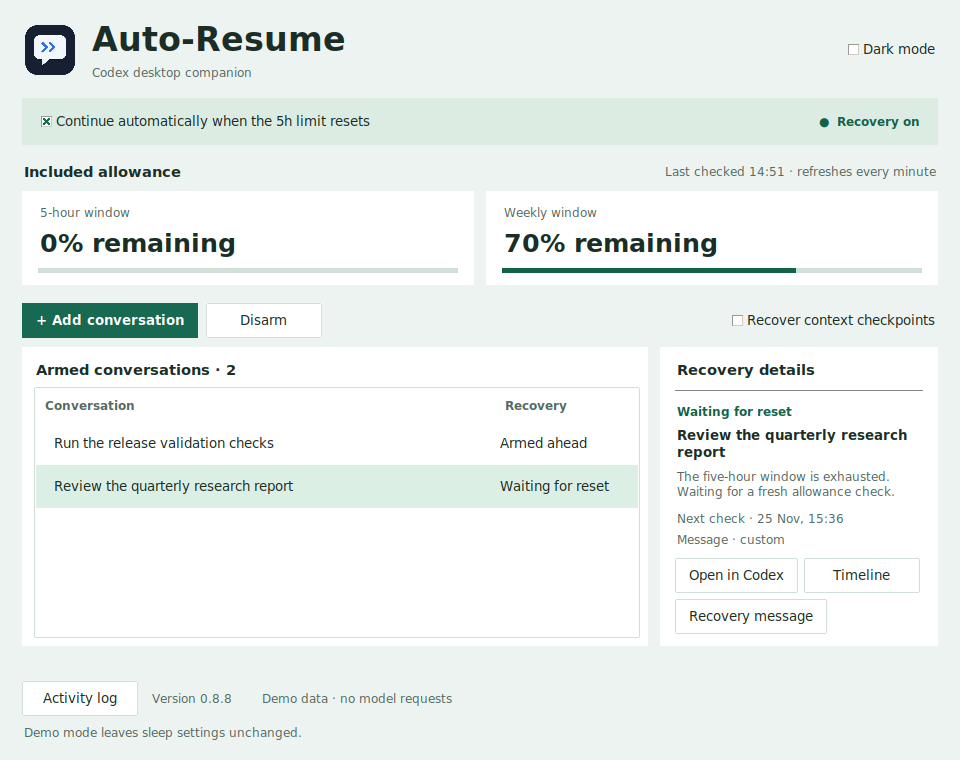
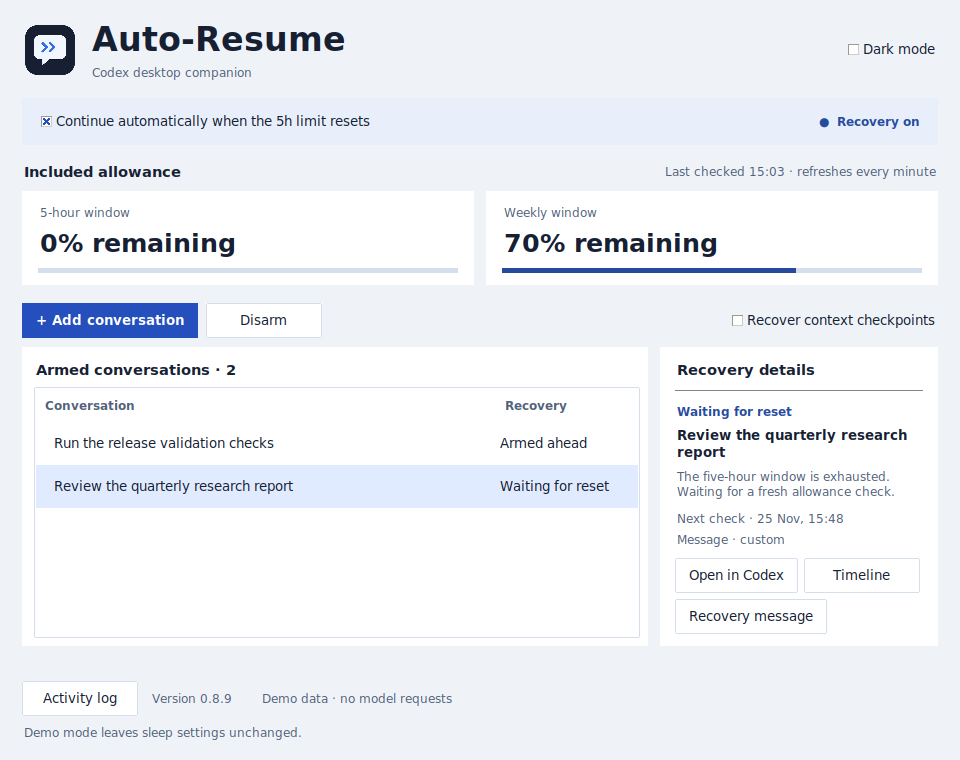
Document every release and replace green with slate and blue

diff --git a/docs/index.html b/docs/index.html
@@ -5,16 +5,16 @@
   <meta name="viewport" content="width=device-width, initial-scale=1">
   <meta name="description" content="Codex Auto-Resume is an open-source desktop app that continues armed Codex chats after the five-hour usage limit resets. Download for Windows, Ubuntu, and macOS.">
   <meta name="google-site-verification" content="5t6iDLzMA5fiEp99RvjTY3mMAB-lfjHoOtWjsu9sbQs">
-  <meta name="theme-color" content="#10151e">
+  <meta name="theme-color" content="#11141b">
   <meta property="og:type" content="website">
   <meta property="og:title" content="Codex Auto-Resume">
   <meta property="og:description" content="Pick up in the same Codex conversation when included usage returns.">
   <meta property="og:url" content="https://manouselis.github.io/codex-auto-resume/">
-  <meta property="og:image" content="https://manouselis.github.io/codex-auto-resume/screenshots/dark.png?v=0.8.8">
+  <meta property="og:image" content="https://manouselis.github.io/codex-auto-resume/screenshots/dark.png?v=0.8.9">
   <link rel="canonical" href="https://manouselis.github.io/codex-auto-resume/">
   <link rel="icon" href="assets/auto-resume.png" type="image/png">
-  <link rel="stylesheet" href="assets/site.css?v=2">
-  <script src="assets/site.js?v=0.8.8" defer></script>
+  <link rel="stylesheet" href="assets/site.css?v=3">
+  <script src="assets/site.js?v=0.8.9" defer></script>
   <title>Codex Auto-Resume | Resume Codex Chats After Usage Limits</title>
 </head>
 <body id="top">
@@ -54,8 +54,8 @@
               <button type="button" data-theme="light" aria-pressed="false" aria-controls="app-preview">Light</button>
             </div>
           </figcaption>
-          <img id="app-preview" src="screenshots/dark.png?v=0.8.8" width="960" height="760"
-            alt="Auto-Resume 0.8.8 in dark mode showing remaining allowance and the armed queue alongside recovery details for the selected chat."
+          <img id="app-preview" src="screenshots/dark.png?v=0.8.9" width="960" height="760"
+            alt="Auto-Resume 0.8.9 in dark mode showing remaining allowance and the armed queue alongside recovery details for the selected chat."
             fetchpriority="high">
         </figure>
       </div>
@@ -72,25 +72,25 @@
         </a>
       </div>
       <div class="packages">
-        <article class="package">
+        <article class="package" id="download-windows">
           <h3>Windows</h3>
           <p>Windows 11 · x64 or ARM with x64 emulation</p>
           <a class="button button-download" data-package="windows-x64-setup.exe"
             href="https://github.com/Manouselis/codex-auto-resume/releases/download/v0.8.8/codex-auto-resume-0.8.8-windows-x64-setup.exe">Download installer</a>
         </article>
-        <article class="package">
+        <article class="package" id="download-ubuntu">
           <h3>Ubuntu</h3>
           <p>Ubuntu 22.04+ · x64</p>
           <a class="button button-download" data-package="linux-x64.deb"
             href="https://github.com/Manouselis/codex-auto-resume/releases/download/v0.8.8/codex-auto-resume-0.8.8-linux-x64.deb">Download .deb</a>
         </article>
-        <article class="package">
+        <article class="package" id="download-macos">
           <h3>macOS</h3>
           <p>Apple silicon with macOS 14+ or Intel with macOS 15+</p>
           <div class="package-buttons">
-            <a class="button button-download" data-package="macos-arm64.dmg"
+            <a class="button button-download" id="download-macos-arm64" data-package="macos-arm64.dmg"
               href="https://github.com/Manouselis/codex-auto-resume/releases/download/v0.8.8/codex-auto-resume-0.8.8-macos-arm64.dmg">Apple silicon</a>
-            <a class="button button-download" data-package="macos-x64.dmg"
+            <a class="button button-download" id="download-macos-x64" data-package="macos-x64.dmg"
               href="https://github.com/Manouselis/codex-auto-resume/releases/download/v0.8.8/codex-auto-resume-0.8.8-macos-x64.dmg">Intel</a>
           </div>
         </article>
@@ -101,8 +101,8 @@
     <section class="shell upgrade" aria-labelledby="upgrade-title">
       <div class="upgrade-panel">
         <div>
-          <h2 id="upgrade-title">New in 0.8.8</h2>
-          <p>Select an armed chat to see why it is waiting and when Auto-Resume will check again. Open the original chat in Codex or read its recovery timeline from the same panel.</p>
+          <h2 id="upgrade-title">New in 0.8.9</h2>
+          <p>The dashboard uses a slate-and-blue palette in both themes. Select an armed chat to see why it is waiting, open it in Codex, or read its recovery timeline.</p>
           <p>Startup and manual update checks use GitHub’s public release feed. Accept the update prompt to install the verified download and reopen Auto-Resume.</p>
         </div>
         <div>
@@ -167,6 +167,7 @@
       <nav aria-label="Project resources">
         <a href="https://github.com/Manouselis/codex-auto-resume/blob/main/docs/TROUBLESHOOTING.md">Troubleshooting</a>
         <a href="https://github.com/Manouselis/codex-auto-resume/releases">All releases</a>
+        <a href="https://github.com/Manouselis/codex-auto-resume/blob/main/docs/RELEASING.md">Release checklist</a>
         <a href="https://github.com/Manouselis/codex-auto-resume/blob/main/LICENSE">License</a>
       </nav>
     </div>

diff --git a/docs/assets/site.css b/docs/assets/site.css
@@ -1,22 +1,22 @@
 :root {
   color-scheme: light;
-  --ink: #172b45;
-  --muted: #586c84;
-  --paper: #f1f5fa;
+  --ink: #172033;
+  --muted: #52617a;
+  --paper: #eff3f8;
   --white: #fff;
-  --line: #d6e0ed;
-  --link: #1d4ed8;
-  --focus: #2563eb;
-  --soft-blue: #e7eef9;
-  --light-selection: #dce9ff;
-  --hero: #10151e;
-  --hero-panel: #1a2331;
-  --hero-line: #2d3a4e;
-  --hero-ink: #edf3fb;
-  --hero-muted: #b8c8dc;
-  --hero-accent: #73a9ff;
-  --hero-accent-hover: #91bdff;
-  --hero-selection: #233e61;
+  --line: #d5deeb;
+  --link: #244fbd;
+  --focus: #2b56c4;
+  --soft-blue: #e8effb;
+  --light-selection: #e1ebff;
+  --hero: #11141b;
+  --hero-panel: #1b212d;
+  --hero-line: #384357;
+  --hero-ink: #f3f5fa;
+  --hero-muted: #b0bdd2;
+  --hero-accent: #9bb8ff;
+  --hero-accent-hover: #bdd0ff;
+  --hero-selection: #293a59;
   font-family: "Aptos", "Segoe UI", system-ui, sans-serif;
   color: var(--ink);
   background: var(--paper);
@@ -47,7 +47,7 @@ nav a:hover { text-decoration: underline; }
 .repo-link { padding: 7px 14px; border: 1px solid #52647e; border-radius: 7px; }
 .top :focus-visible, .hero :focus-visible { outline-color: var(--hero-accent); }
 
-.hero { background-image: radial-gradient(ellipse at 82% 30%, #20344f 0%, transparent 59%); }
+.hero { background-image: radial-gradient(ellipse at 82% 30%, #232e48 0%, transparent 59%); }
 .hero-layout { display: grid; grid-template-columns: minmax(0, .88fr) minmax(0, 1.12fr); align-items: center; gap: clamp(28px, 5vw, 72px); padding-block: clamp(48px, 6vw, 86px); }
 .eyebrow { margin-bottom: 17px; color: var(--hero-accent); font-size: .875rem; letter-spacing: .085em; text-transform: uppercase; font-weight: 720; }
 h1, h2, h3 { line-height: 1.08; text-wrap: balance; }
@@ -58,7 +58,7 @@ h1 span { display: block; color: var(--hero-accent); }
 .hero-link { color: var(--hero-ink); font-size: .9375rem; font-weight: 670; }
 .hero-note { margin-top: 15px; color: var(--hero-muted); font-size: .875rem; }
 .button { display: inline-flex; min-height: 44px; align-items: center; justify-content: center; padding: 8px 14px; border: 1px solid transparent; border-radius: 7px; font-size: .9375rem; line-height: 1.25; font-weight: 720; text-decoration: none; }
-.button-primary { background: var(--hero-accent); color: #101b2d; }
+.button-primary { background: var(--hero-accent); color: #142140; }
 .button-primary:hover { background: var(--hero-accent-hover); }
 
 .preview { border: 1px solid #425573; border-radius: 12px; overflow: hidden; background: var(--hero); box-shadow: 0 18px 55px #070e1970; }

diff --git a/docs/assets/site.js b/docs/assets/site.js
@@ -7,8 +7,8 @@ if (preview && themeButtons.length) {
   for (const button of themeButtons) {
     button.addEventListener("click", () => {
       const theme = button.dataset.theme;
-      preview.src = `screenshots/${theme}.png?v=0.8.8`;
-      preview.alt = `Auto-Resume 0.8.8 in ${theme} mode showing remaining allowance and the armed queue alongside recovery details for the selected chat.`;
+      preview.src = `screenshots/${theme}.png?v=0.8.9`;
+      preview.alt = `Auto-Resume 0.8.9 in ${theme} mode showing remaining allowance and the armed queue alongside recovery details for the selected chat.`;
       for (const item of themeButtons) {
         item.setAttribute("aria-pressed", String(item === button));
       }
@@ -28,11 +28,11 @@ async function updateDownloads() {
 
   // Keep bundled links available offline or when GitHub rate-limits the feed.
   const versionLabel = document.querySelector("#release-version");
-  const currentTag = versionLabel.textContent.split(" ")[0];
   const newestFirst = (a, b) => b.localeCompare(a, "en", { numeric: true });
   const published = releases
     .filter(release => !release.draft && /^v\d+\.\d+\.\d+$/.test(release.tag_name)
-      && newestFirst(release.tag_name, currentTag) <= 0 && Array.isArray(release.assets))
+      && Array.isArray(release.assets)
+      && release.assets.some(asset => asset.name === "SHA256SUMS" && asset.state === "uploaded"))
     .sort((a, b) => newestFirst(a.tag_name, b.tag_name));
 
   for (const release of published) {

diff --git a/auto_resume/ui.py b/auto_resume/ui.py
@@ -299,11 +299,11 @@ class ControlWindow:
 
     def theme(self):
         if self.dark.get():
-            bg, fg, muted, panel, border, accent = "#101816", "#eef8f4", "#a5b8b0", "#192522", "#344944", "#9be0c2"
-            selection, success, status_bg, hover, on_accent = "#2a423a", "#91e4be", "#22352e", "#b7efd6", "#152920"
+            bg, fg, muted, panel, border, accent = "#11141b", "#f3f5fa", "#b0bdd2", "#1b212d", "#384357", "#9bb8ff"
+            selection, status_ink, status_bg, hover, on_accent = "#293a59", "#a9c3ff", "#222e44", "#bdd0ff", "#142140"
         else:
-            bg, fg, muted, panel, border, accent = "#edf3f0", "#1b2d25", "#536961", "#ffffff", "#d1dfd8", "#176951"
-            selection, success, status_bg, hover, on_accent = "#dcefe5", "#126248", "#dcece3", "#14523f", "#ffffff"
+            bg, fg, muted, panel, border, accent = "#eff3f8", "#172033", "#52617a", "#ffffff", "#d5deeb", "#244fbd"
+            selection, status_ink, status_bg, hover, on_accent = "#e1ebff", "#264b9d", "#e8effb", "#1b3f98", "#ffffff"
         self.root.configure(background=bg)
         self.style.configure(".", background=bg, foreground=fg, fieldbackground=panel, font=(self.font_family, 10))
         self.style.configure("TFrame", background=bg)
@@ -314,12 +314,12 @@ class ControlWindow:
         self.style.configure("Section.TLabel", font=(self.font_family, 11, "bold"))
         self.style.configure("Muted.TLabel", foreground=muted, font=(self.font_family, 9))
         self.style.configure("CardHeading.TLabel", background=panel, font=(self.font_family, 11, "bold"))
-        self.style.configure("CardAccent.TLabel", background=panel, foreground=success, font=(self.font_family, 9, "bold"))
+        self.style.configure("CardAccent.TLabel", background=panel, foreground=status_ink, font=(self.font_family, 9, "bold"))
         self.style.configure("CardTitle.TLabel", background=panel, font=(self.font_family, 10, "bold"))
         self.style.configure("CardMuted.TLabel", background=panel, foreground=muted, font=(self.font_family, 9))
         self.style.configure("Metric.TLabel", background=panel, font=(self.font_family, 19, "bold"))
         self.style.configure("Paused.TLabel", background=status_bg, foreground=muted, font=(self.font_family, 9, "bold"))
-        self.style.configure("Status.TLabel", background=status_bg, foreground=success, font=(self.font_family, 9, "bold"))
+        self.style.configure("Status.TLabel", background=status_bg, foreground=status_ink, font=(self.font_family, 9, "bold"))
         self.style.configure("TButton", background=panel, foreground=fg, bordercolor=border, lightcolor=panel,
                              darkcolor=panel, borderwidth=1, padding=(11, 6), focuscolor=accent)
         self.style.map("TButton", background=[("active", border)], foreground=[("active", fg)])
@@ -342,7 +342,7 @@ class ControlWindow:
                              borderwidth=0, font=(self.font_family, 9, "bold"), padding=(9, 9))
         self.style.map("Treeview", background=[("selected", selection)], foreground=[("selected", fg)])
         self.style.map("Treeview.Heading", background=[("active", panel)])
-        self.bar_colors = (border, accent, success)
+        self.bar_colors = (border, accent, status_ink)
         self.draw_quotas()
 
     def draw_quotas(self):

diff --git a/scripts/build.py b/scripts/build.py
@@ -32,7 +32,7 @@ def build_app(root=ROOT):
 def source_files(root=ROOT):
     excluded = {".git", "dist", "__pycache__", ".pytest_cache", ".venv", ".ruff_cache"}
     directories = {"auto_resume", "tests", "scripts", "docs", "packaging", ".github"}
-    top_files = {"README.md", "LICENSE", "CONTRIBUTING.md", "SECURITY.md", "pyproject.toml", ".gitignore"}
+    top_files = {"AGENTS.md", "README.md", "LICENSE", "CONTRIBUTING.md", "SECURITY.md", "pyproject.toml", ".gitignore"}
     extensions = {".py", ".md", ".json", ".png", ".svg", ".desktop", ".service", ".toml", ".yml", ".yaml", ".nsi", ".spec", ".txt", ".ico", ".icns", ".sh"}
     for p in sorted(root.rglob("*")):
         relative = p.relative_to(root)

diff --git a/auto_resume/__init__.py b/auto_resume/__init__.py
@@ -1,3 +1,3 @@
 """Local, fail-closed continuation controller. No third-party runtime dependencies."""
 
-__version__ = "0.8.8"
+__version__ = "0.8.9"

diff --git a/README.md b/README.md
@@ -7,7 +7,7 @@ A desktop companion that resumes explicitly armed Codex conversations in the sam
 [Project website](https://manouselis.github.io/codex-auto-resume/)
 
 [![Checks](https://github.com/Manouselis/codex-auto-resume/actions/workflows/ci.yml/badge.svg)](https://github.com/Manouselis/codex-auto-resume/actions/workflows/ci.yml)
-[![Desktop installers](https://github.com/Manouselis/codex-auto-resume/actions/workflows/desktop.yml/badge.svg)](https://github.com/Manouselis/codex-auto-resume/actions/workflows/desktop.yml) · **v0.8.8 beta** · MIT
+[![Desktop installers](https://github.com/Manouselis/codex-auto-resume/actions/workflows/desktop.yml/badge.svg)](https://github.com/Manouselis/codex-auto-resume/actions/workflows/desktop.yml) · MIT
 
 ## Download and open
 
@@ -15,12 +15,12 @@ Python and Tk are bundled. Install the official Codex desktop app and sign in to
 
 | Your computer | Download | Install |
 | --- | --- | --- |
-| Ubuntu 22.04+ · x64 | [Ubuntu installer](https://github.com/Manouselis/codex-auto-resume/releases/download/v0.8.8/codex-auto-resume-0.8.8-linux-x64.deb) | Open with Software Install for a fresh install. Use [APT for upgrades](docs/INSTALL.md#upgrade-an-existing-ubuntu-installation). |
-| Windows 11 · x64 / ARM with x64 emulation | [Windows installer](https://github.com/Manouselis/codex-auto-resume/releases/download/v0.8.8/codex-auto-resume-0.8.8-windows-x64-setup.exe) | Open the installer, then launch from Start. |
-| macOS · Apple silicon, 14+ | [Apple silicon app](https://github.com/Manouselis/codex-auto-resume/releases/download/v0.8.8/codex-auto-resume-0.8.8-macos-arm64.dmg) | Open the disk image and drag the app to Applications. |
-| macOS · Intel, 15+ | [Intel app](https://github.com/Manouselis/codex-auto-resume/releases/download/v0.8.8/codex-auto-resume-0.8.8-macos-x64.dmg) | Open the disk image and drag the app to Applications. |
+| Ubuntu 22.04+ · x64 | [Ubuntu installer](https://manouselis.github.io/codex-auto-resume/#download-ubuntu) | Open with Software Install for a fresh install. Use [APT for upgrades](docs/INSTALL.md#upgrade-an-existing-ubuntu-installation). |
+| Windows 11 · x64 / ARM with x64 emulation | [Windows installer](https://manouselis.github.io/codex-auto-resume/#download-windows) | Open the installer, then launch from Start. |
+| macOS · Apple silicon, 14+ | [Apple silicon app](https://manouselis.github.io/codex-auto-resume/#download-macos-arm64) | Open the disk image and drag the app to Applications. |
+| macOS · Intel, 15+ | [Intel app](https://manouselis.github.io/codex-auto-resume/#download-macos-x64) | Open the disk image and drag the app to Applications. |
 
-These community beta installers are unsigned, so Windows and macOS may ask for confirmation. See [installation help](docs/INSTALL.md), [checksums and release files](https://github.com/Manouselis/codex-auto-resume/releases/tag/v0.8.8), and the [compatibility test scope](docs/TESTING.md).
+These community beta installers are unsigned, so Windows and macOS may ask for confirmation. See [installation help](docs/INSTALL.md), [checksums and release files](https://github.com/Manouselis/codex-auto-resume/releases), and the [compatibility test scope](docs/TESTING.md).
 
 Installed copies check GitHub for updates and verify the installer checksum. On Ubuntu, installing or updating the DEB also migrates the standard app-menu shortcut from an older source install. If the update check fails, download the installer for your platform above.
 
@@ -46,4 +46,4 @@ The screenshot uses example conversations. [View the light theme](docs/screensho
 
 Live continuation has been verified on Ubuntu with Codex runtime **0.166**. Packaged GUI/install checks use isolated test data; they do **not** establish live Codex integration on every OS or repeated unattended quota-reset cycles. [Evidence and limitations](docs/TESTING.md).
 
-[Installation](docs/INSTALL.md) · [Troubleshooting](docs/TROUBLESHOOTING.md) · [Recovery](docs/RECOVERY.md) · [Building](docs/BUILDING.md) · [Security](SECURITY.md) · [Contributing](CONTRIBUTING.md)
+[Installation](docs/INSTALL.md) · [Troubleshooting](docs/TROUBLESHOOTING.md) · [Recovery](docs/RECOVERY.md) · [Building](docs/BUILDING.md) · [Release checklist](docs/RELEASING.md) · [Security](SECURITY.md) · [Contributing](CONTRIBUTING.md)

diff --git a/docs/RELEASING.md b/docs/RELEASING.md
@@ -1,0 +1,24 @@
+# Release checklist
+
+Use this checklist whenever a fix, feature, or documentation update is delivered. It keeps the source, documentation, website, and public downloads in sync.
+
+## Prepare the change
+
+1. Check the branch, configured remote, and newest **published** GitHub release. A Git tag can exist before its installers are available.
+2. Update the README and affected guides. Record user-visible changes in the changelog and release notes. Refresh screenshots when the interface changes. Document the scope of the checks you actually ran.
+3. Update the website under `docs/` to reflect the change. Check the Windows, Ubuntu, and both macOS downloads, the release-notes link, screenshots, and setup instructions. Check the site's static HTML as well as its JavaScript download selector.
+4. Keep the static fallback links on the newest complete release you have verified. The website can show a newer release automatically when GitHub lists all four uploaded installers and the checksum file. README download links route through the platform cards so they remain usable while CI builds.
+5. Run checks appropriate to the work. For an app release, run the local suite and use the tagged installer workflow to verify the packaged GUI and native installers across the supported platforms. For documentation-only changes, check the changed links and the deployed site.
+
+## Commit, tag, and push
+
+1. Commit related changes together. Add an annotated tag for each delivered fix, feature, performance improvement, or documentation change. Point each tag at the commit that contains that work.
+2. Push the branch and the descriptive tags. If installer contents change, bump `auto_resume/__init__.py`, prepare `docs/RELEASE_NOTES.md`, and tag the exact release commit `vX.Y.Z`. Push the version tag separately to trigger the installer workflow. [GitHub skips tag push events when more than three tags are pushed together](https://docs.github.com/en/actions/reference/workflows-and-actions/events-that-trigger-workflows#push).
+3. Confirm the branch and tags are on GitHub and the relevant workflow started. A documentation-only update needs no new version tag.
+
+## Verify after pushing
+
+1. Check GitHub Pages deployment and open the live website. Verify that the changes are visible and that the download cards still work if the release feed is unavailable.
+2. For an app release, check the [desktop workflow](../.github/workflows/desktop.yml) at the tag. Confirm the public release contains the Ubuntu DEB, Windows installer, Apple silicon DMG, Intel DMG, and `SHA256SUMS`. Check the installer URLs and hashes. Read the smoke reports before claiming platform coverage.
+3. Once the new release is available, update any pinned fallback links and version labels that still point to the previous release. Verify the README, install guide, and website agree. Push and tag that documentation follow-up without bumping the app version.
+4. Report the pushed commit and tags, the verified downloads and platforms, and any pending checks. Report a release as published only once its assets are available.

diff --git a/docs/INSTALL.md b/docs/INSTALL.md
@@ -1,6 +1,6 @@
 # Install Codex Auto-Resume
 
-Download your installer from the [v0.8.8 release](https://github.com/Manouselis/codex-auto-resume/releases/tag/v0.8.8). Python and Tk are bundled. Open the official Codex desktop app and sign in to ChatGPT Plus before adding conversations.
+Download your installer from the [project downloads](https://manouselis.github.io/codex-auto-resume/#downloads). Python and Tk are bundled. Open the official Codex desktop app and sign in to ChatGPT Plus before adding conversations.
 
 ## Ubuntu
 
@@ -14,10 +14,10 @@ The application lives in `/opt/codex-auto-resume` and is available at `/usr/bin/
 
 ### Upgrade an existing Ubuntu installation
 
-Close Software Install if it is stalled. From the folder containing the new package, install it over the old version with APT. This also works if App Center only shows **Installed**.
+Close Software Install if it is stalled. From the folder containing the new package, install it over the old version with APT. This also works if App Center only shows **Installed**. Replace `VERSION` with the number in your downloaded filename.
 
 ```sh
-sudo apt install ./codex-auto-resume-0.8.8-linux-x64.deb
+sudo apt install ./codex-auto-resume-VERSION-linux-x64.deb
 dpkg-query -W codex-auto-resume
 ```
 
@@ -61,7 +61,7 @@ Starting with 0.8.4, the footer shows the installed version. The Windows install
 
 Ubuntu uses APT and prompts for administrator authorization. If its background controller was active, select the chats you want to monitor again after the upgrade. macOS updates the installed app bundle and may request administrator authorization for a protected Applications folder. Copy the app from its disk image to Applications before opening it.
 
-If the update check in 0.8.4 or earlier fails, close the app and download 0.8.8 from the [project website](https://manouselis.github.io/codex-auto-resume/#downloads). Run the Windows installer, use the [APT upgrade steps](#upgrade-an-existing-ubuntu-installation) on Ubuntu, or replace the macOS app in Applications.
+If the update check in 0.8.4 or earlier fails, close the app and download the current installer from the [project website](https://manouselis.github.io/codex-auto-resume/#downloads). Run the Windows installer, use the [APT upgrade steps](#upgrade-an-existing-ubuntu-installation) on Ubuntu, or replace the macOS app in Applications.
 
 The local state database retains recovery metadata and any custom recovery messages across upgrades and uninstall. It stores chat/account/project identifiers and guard state. Auto-Resume does not copy conversation transcripts or credentials into it. Defaults:
 

diff --git a/docs/README.md b/docs/README.md
@@ -2,7 +2,7 @@
 
 Start with the [project website](https://manouselis.github.io/codex-auto-resume/) and [installation guide](INSTALL.md). Native packages include Python and Tk for Ubuntu, Windows and macOS. Open the separately installed Codex desktop app and sign in with ChatGPT Plus.
 
-In 0.8.5, use **Add conversation** to [arm chats ahead of the five-hour limit](RECOVERY.md#arming-ahead). Chats stay in the queue as you work in Codex. Installed copies check for updates at launch through GitHub’s public release feed and verify published checksums before installing.
+Use **Add conversation** to [arm chats ahead of the five-hour limit](RECOVERY.md#arming-ahead). Chats stay in the queue as you work in Codex. Installed copies check for updates at launch through GitHub’s public release feed and verify published checksums before installing.
 
 | Guide | Purpose |
 | --- | --- |
@@ -10,6 +10,7 @@ In 0.8.5, use **Add conversation** to [arm chats ahead of the five-hour limit](R
 | [Installation](INSTALL.md) | Graphical setup, updates, screen locking, uninstall |
 | [Testing](TESTING.md) | Exact platform/installer checks and live-integration limits |
 | [Building](BUILDING.md) | Native bundles, CI release pipeline, signing status |
+| [Release checklist](RELEASING.md) | Tags, docs, website updates, and download verification |
 | [Troubleshooting](TROUBLESHOOTING.md) | Connection, allowance, arming and delivery errors |
 | [Recovery](RECOVERY.md) | Usage resets, context checkpoints and native schedules |
 | [Safety](SAFETY.md) | Included usage, cancellation and duplicate prevention |

diff --git a/AGENTS.md b/AGENTS.md
@@ -1,0 +1,11 @@
+# Codex Auto-Resume repository instructions
+
+Follow the [release checklist](docs/RELEASING.md) for every delivery in this repository.
+
+- Update the README, relevant documentation in `docs/`, and the GitHub Pages site in `docs/index.html` as part of the change. Keep instructions, screenshots, release notes, and download links consistent with what users can actually install.
+- Run checks appropriate to the change. Push completed commits and an annotated tag for each fix or feature to the configured GitHub repository. Use `fix/<name>`, `feature/<name>`, `perf/<name>`, or `docs/<name>`.
+- If the installed app changes, bump the app version and push a separate `vX.Y.Z` release tag that points to the tested release commit. Documentation-only changes still get a descriptive tag and keep the existing installer version.
+- Keep public download links working while a new release builds. Verify the live website, the release, and the installer links before reporting them as published. If CI is still running, say what has passed and what is pending.
+- Preserve explicit chat arming, the included-usage checks, and the protections against duplicate or uncertain sends. Distinguish tests with fixtures from live Codex continuation. Keep private state and credentials out of Git and release files.
+
+For figures, use the diagram-design skill and inspect the rendered result at its intended display size.

diff --git a/docs/RELEASE_NOTES.md b/docs/RELEASE_NOTES.md
@@ -1,6 +1,5 @@
-- The dashboard puts the armed queue next to the selected conversation’s recovery details, including why it is waiting, its next check, and its message setting.
-- Use **Open in Codex** to navigate to the original conversation or **Timeline** to see its recent recovery events.
-- Windows setup explains what it installs, shows progress details, and points to the next step after installation.
+- Slate and blue replace the green dashboard colors in light and dark mode. The project website and screenshots use the same palette.
+- Download cards use the newest published version that has all four installers and checksums. Working fallback links remain available while a new release is building.
 
 Python and Tk are bundled. Install Codex separately and sign in to ChatGPT Plus. On Ubuntu, open the DEB with Software Install for a fresh install and use APT for an existing install. On Windows, run the per-user setup wizard. On macOS, open the DMG for your processor and drag the app to Applications.
 
